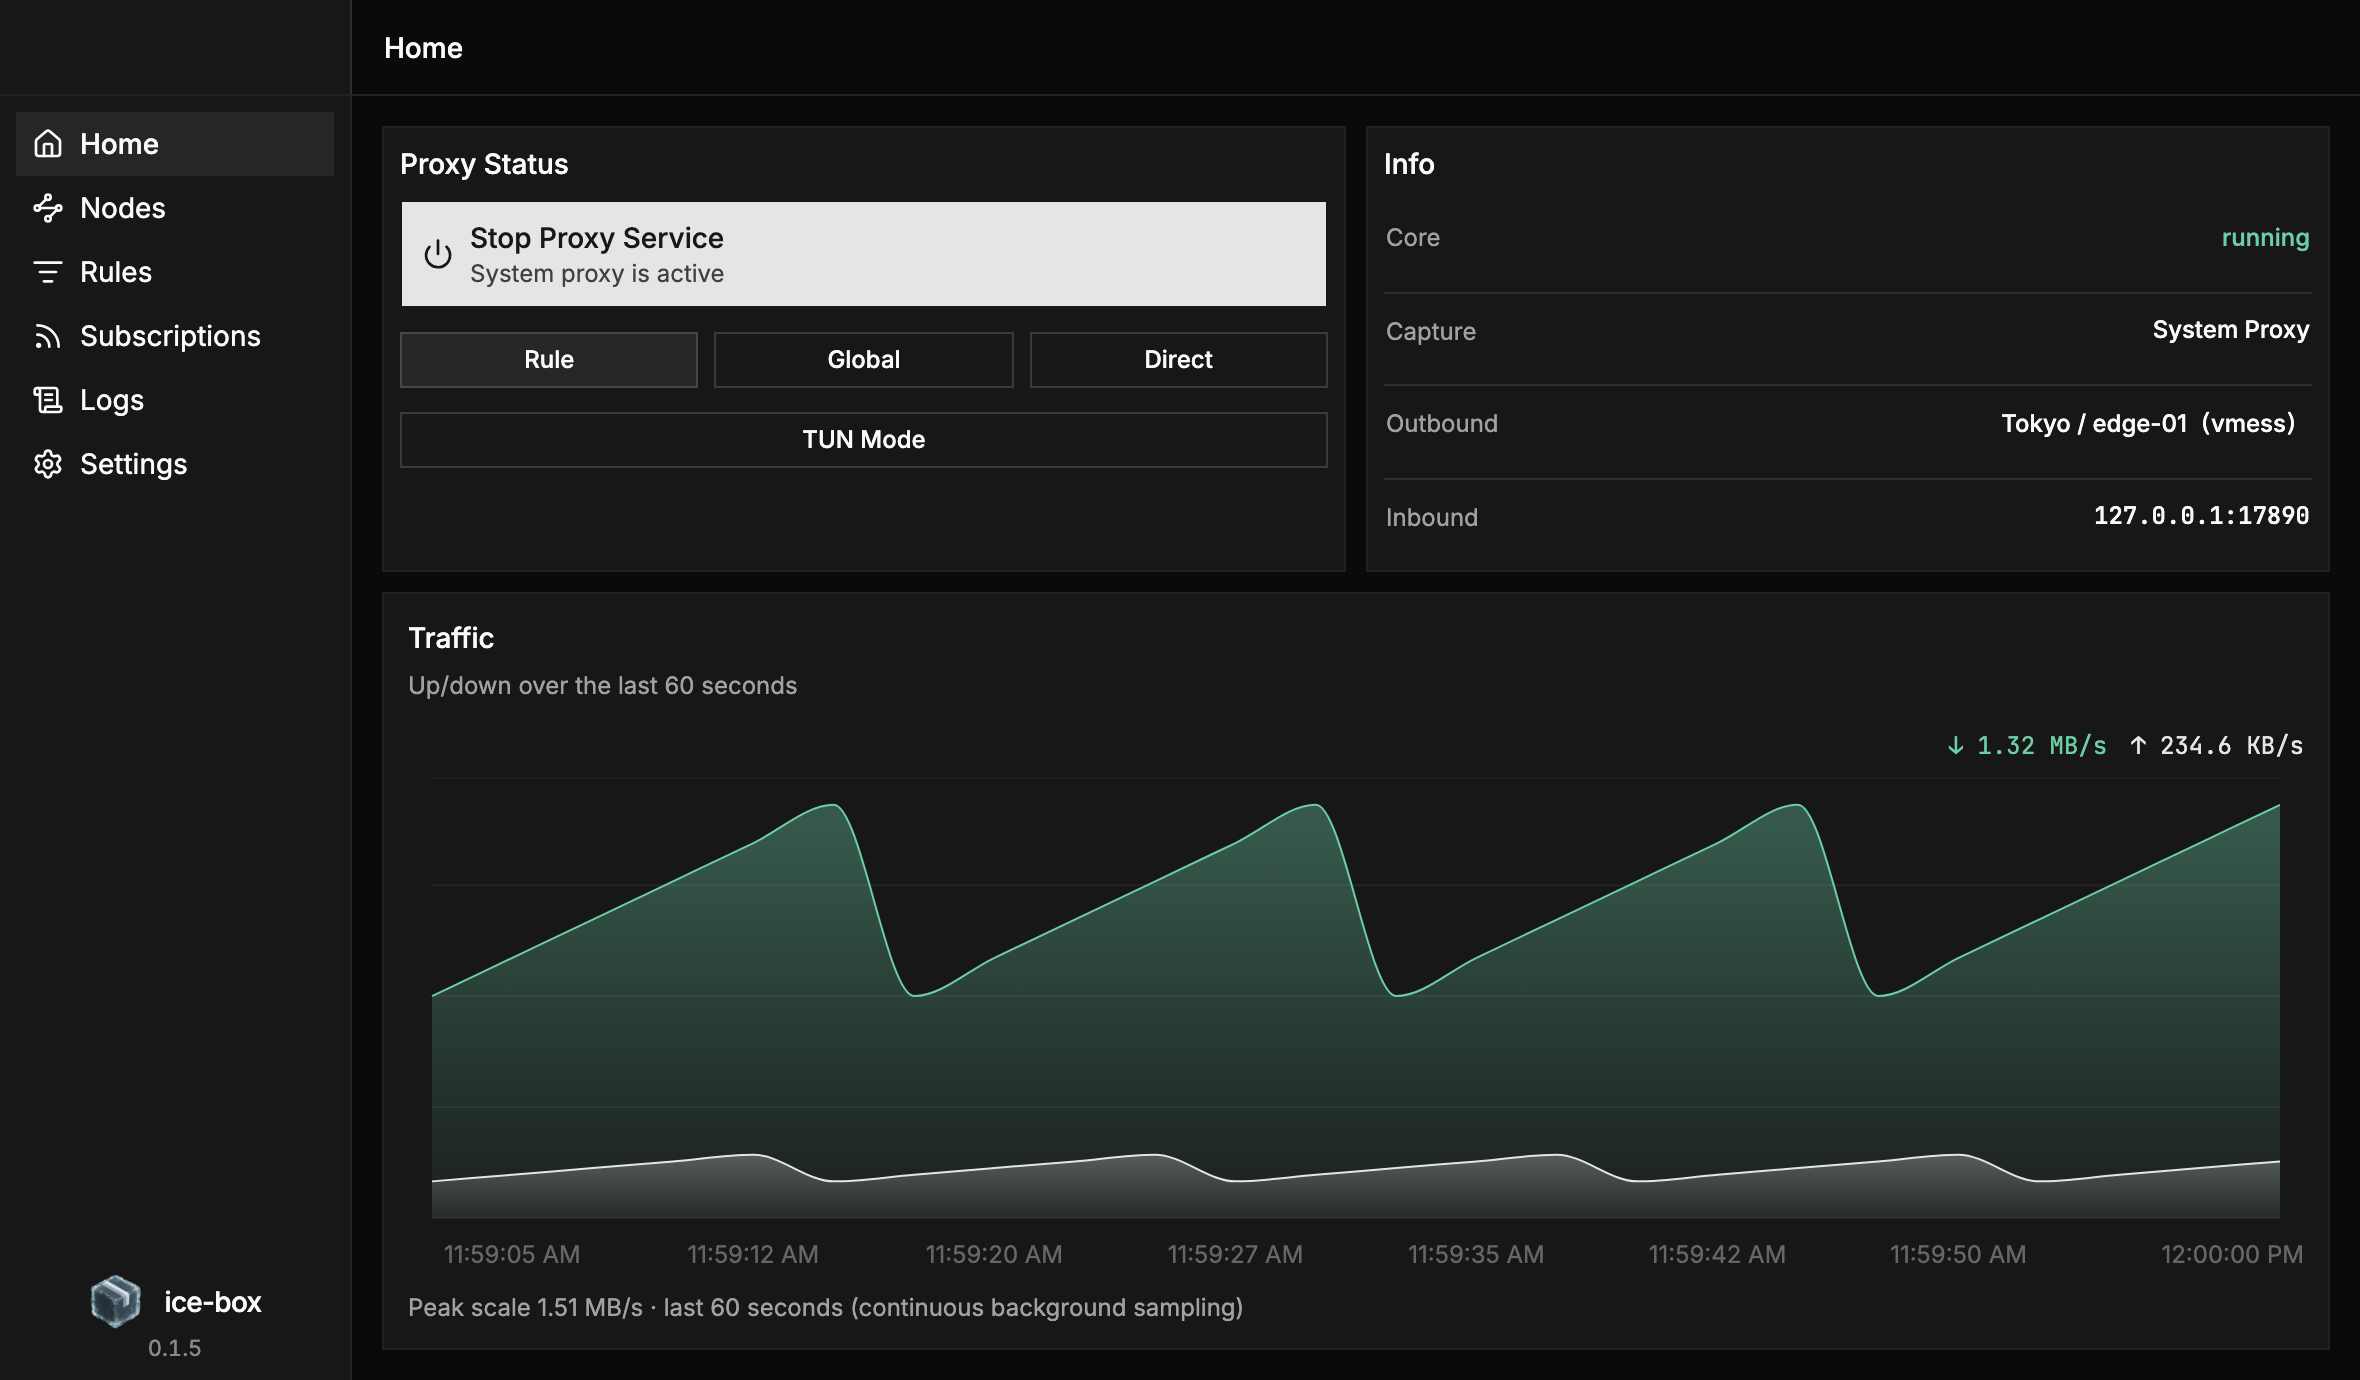
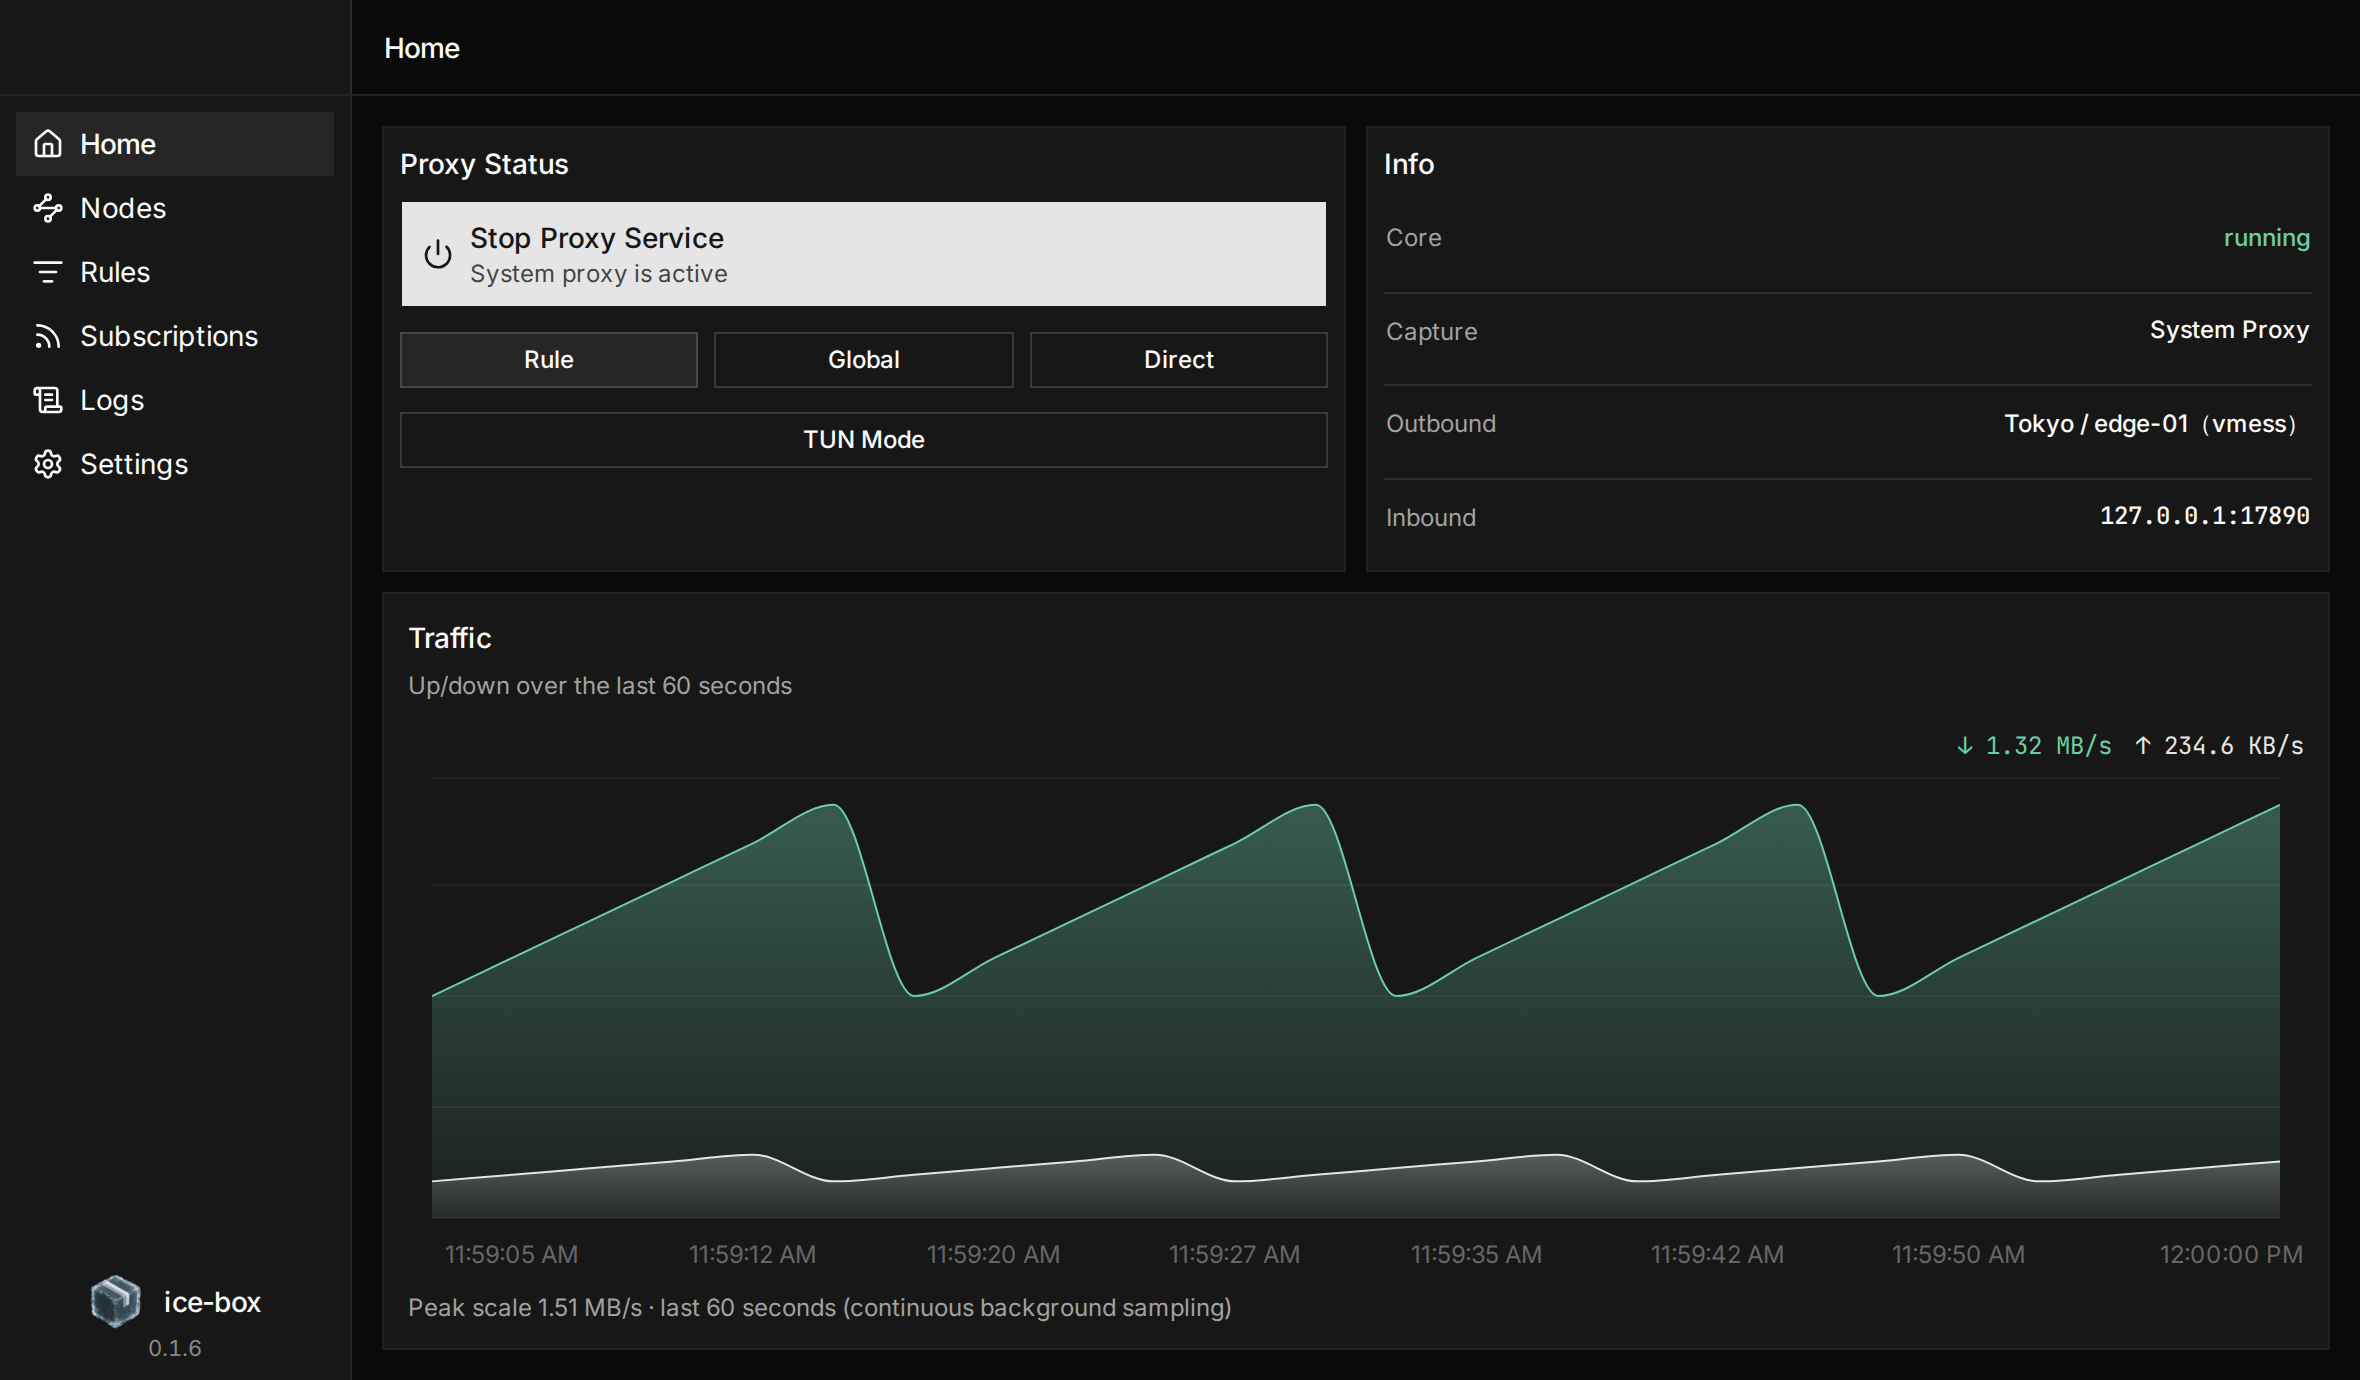
fix: keep Pages version and README screenshot in sync with releases

diff --git a/apps/website/src/main.js b/apps/website/src/main.js
@@ -1,5 +1,9 @@
 import logoUrl from "../../desktop/src/assets/logo.png";
+import { version as appVersion } from "../../desktop/package.json";
 import "./style.css";
+
+/** Same source as the desktop app and the Live Demo title bar (`APP_VERSION`). */
+const displayVersion = `v${appVersion}`;
 
 const favicon = document.createElement("link");
 favicon.rel = "icon";
@@ -23,13 +27,13 @@ document.querySelector("#root").innerHTML = `
           <a class="text-link" href="https://github.com/yilong-musk/ice-box/releases/latest" target="_blank" rel="noreferrer">Download ↗</a>
         </div>
         <div class="hero-meta">
-          <span><b class="status-dot green"></b> v0.1.4</span>
+          <span><b class="status-dot green"></b> ${displayVersion}</span>
           <span>MIT licensed</span>
           <span>macOS · Windows</span>
         </div>
       </div>
     </section>
-    <section class="demo-section page-wrap" id="demo"><div class="app-window"><div class="window-bar"><span class="window-dots"><i></i><i></i><i></i></span><strong>ice-box <small>live product demo</small></strong><span>v0.1.4</span></div><iframe title="ice-box real desktop frontend demo" src="./demo.html"></iframe></div></section>
+    <section class="demo-section page-wrap" id="demo"><div class="app-window"><div class="window-bar"><span class="window-dots"><i></i><i></i><i></i></span><strong>ice-box <small>live product demo</small></strong><span>${displayVersion}</span></div><iframe title="ice-box real desktop frontend demo" src="./demo.html"></iframe></div></section>
   </main>
   <footer class="site-footer page-wrap"><span>© 2026 ice-box</span><a href="https://github.com/yilong-musk/ice-box" target="_blank" rel="noreferrer">github.com/yilong-musk/ice-box ↗</a></footer>
 `;

diff --git a/apps/desktop/src/lib/appVersion.test.ts b/apps/desktop/src/lib/appVersion.test.ts
@@ -1,3 +1,6 @@
+import { readFileSync } from "node:fs";
+import { dirname, resolve } from "node:path";
+import { fileURLToPath } from "node:url";
 import { describe, expect, it } from "vitest";
 import { version as packageVersion } from "../../package.json";
 import { APP_VERSION } from "./appVersion";
@@ -6,5 +9,14 @@ describe("APP_VERSION", () => {
   it("matches the desktop package version", () => {
     expect(APP_VERSION).toBe(packageVersion);
     expect(APP_VERSION).toMatch(/^\d+\.\d+\.\d+/);
+  });
+
+  it("is imported by the website marketing chrome instead of a hardcoded string", () => {
+    const websiteMain = readFileSync(
+      resolve(dirname(fileURLToPath(import.meta.url)), "../../../website/src/main.js"),
+      "utf8",
+    );
+    expect(websiteMain).toMatch(/from ["']\.\.\/\.\.\/desktop\/package\.json["']/);
+    expect(websiteMain).not.toMatch(/\bv\d+\.\d+\.\d+\b/);
   });
 });

diff --git a/docs/release-process.md b/docs/release-process.md
@@ -25,7 +25,7 @@ The version lives in exactly three places and **must stay in sync**:
 | File | Key |
 |------|-----|
 | `Cargo.toml` | `[workspace.package] version` (all crates inherit via `version.workspace = true`) |
-| `apps/desktop/package.json` | `"version"` (also displayed in the app UI) |
+| `apps/desktop/package.json` | `"version"` (also displayed in the app UI and GitHub Pages marketing chrome) |
 | `apps/desktop/src-tauri/tauri.conf.json` | `"version"` (installer metadata) |
 
 `Cargo.lock` is refreshed automatically by `cargo check`.
@@ -83,8 +83,10 @@ bash scripts/release-notes.sh v0.1.2
 ### 3. Gate and merge to `main`
 
 ```bash
-bash scripts/gate-local.sh   # fmt, clippy, Rust tests, tsc, vitest
+bash scripts/gate-local.sh   # fmt, clippy, Rust tests, tsc, vitest; recaptures docs/images/home.png when the version changed
 ```
+
+Commit the updated `docs/images/home.png` and `docs/images/home.version` with the release.
 
 Open a PR from a `release/vX.Y.Z` branch and merge into `main`. `main` has
 branch protection: all CI checks (`gate (linux)`, `gate + build (macOS dmg)`,
